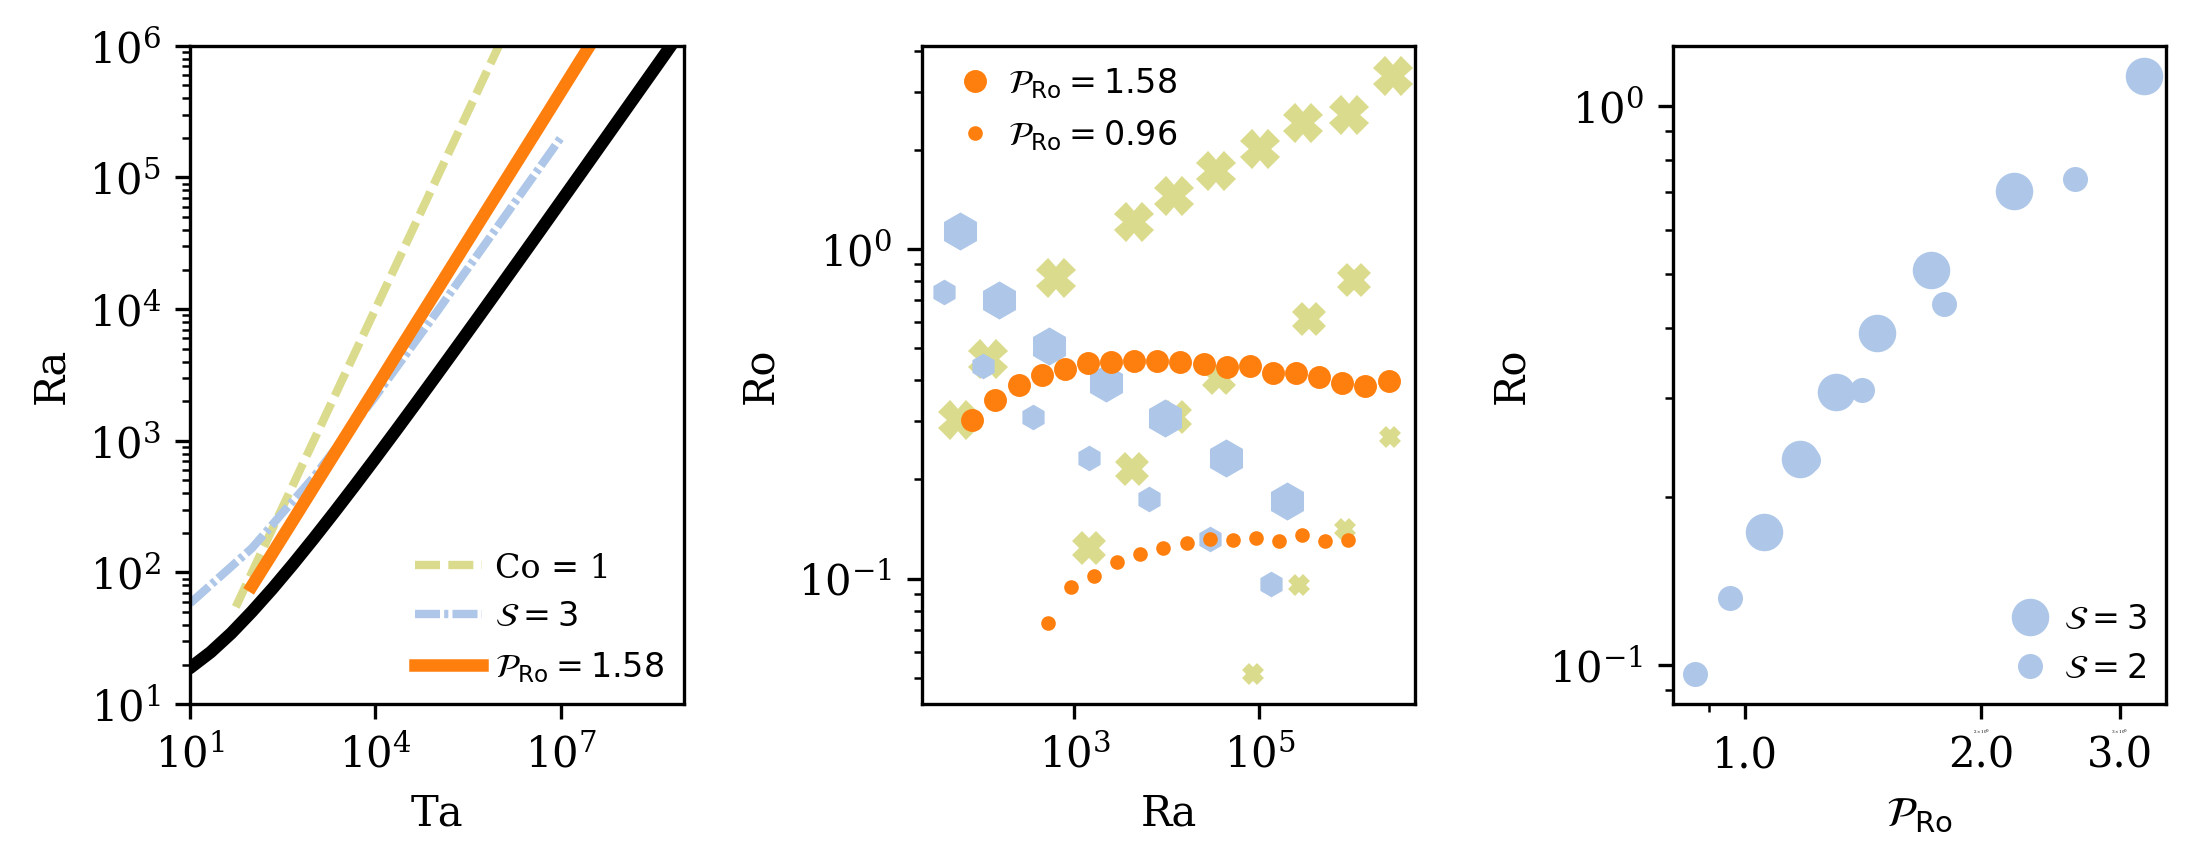
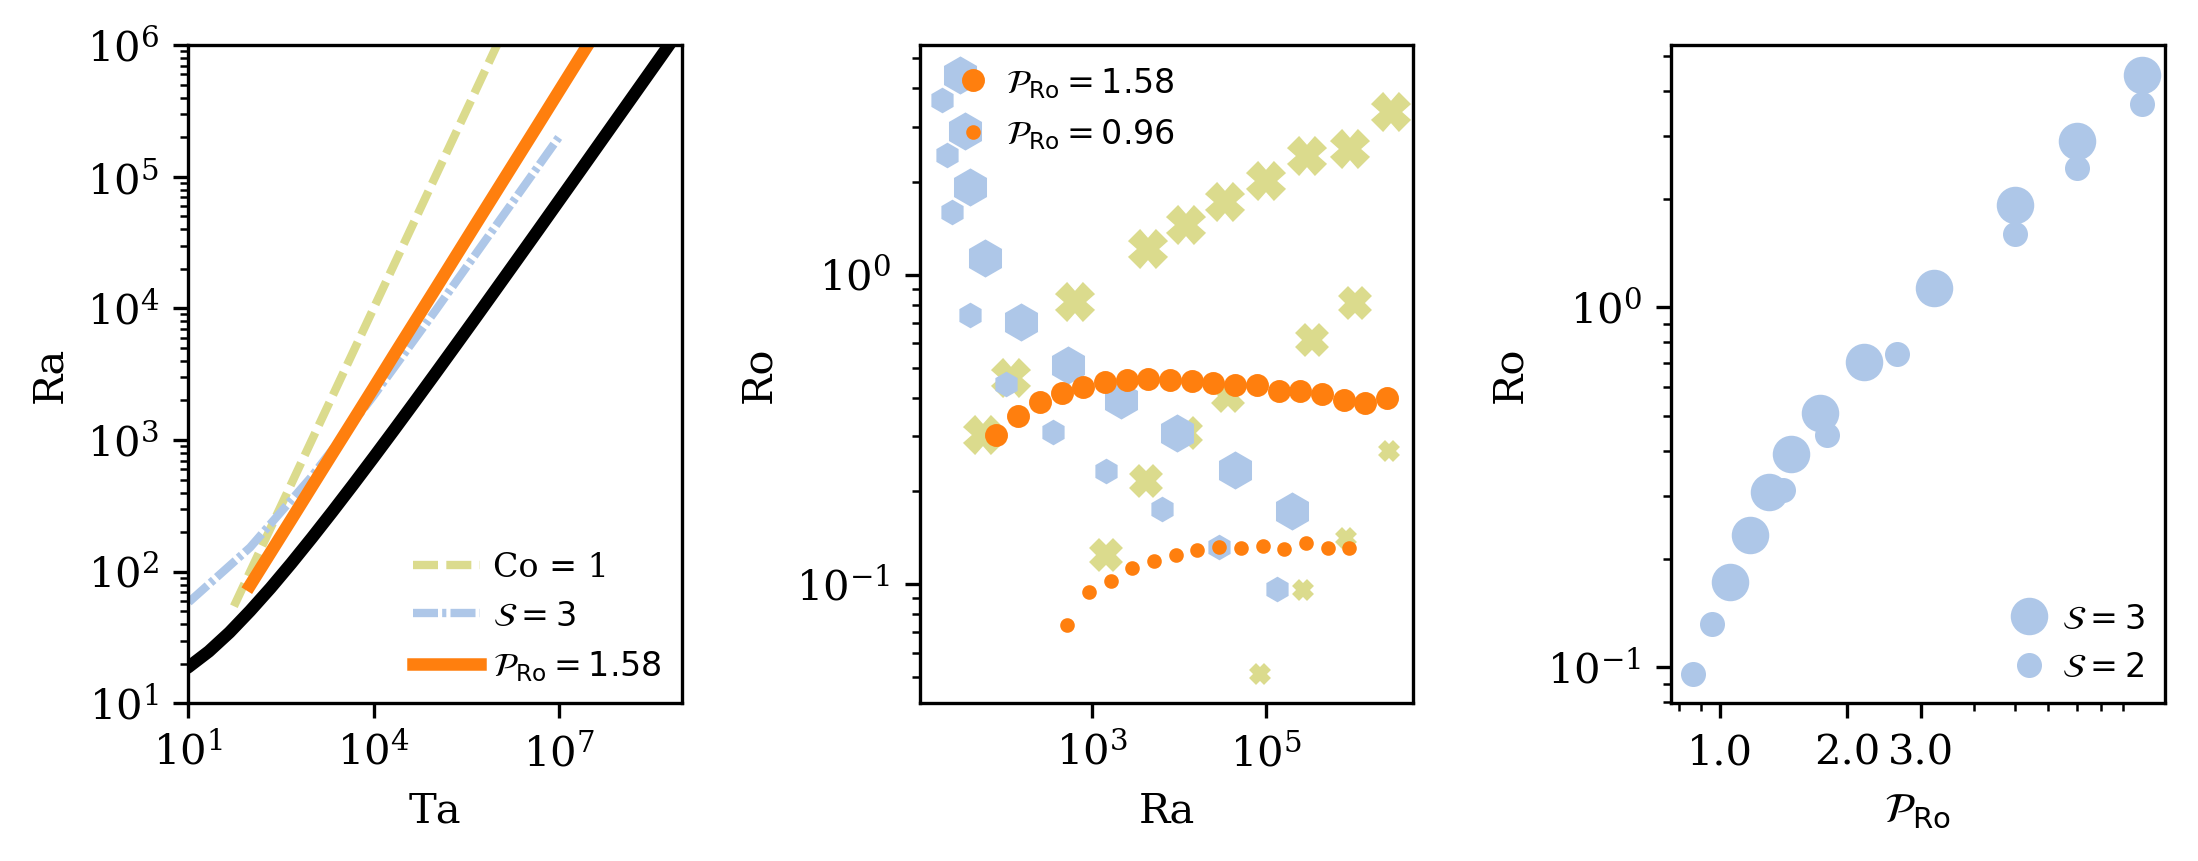
updates constant supercriticality data file, adds a few points

diff --git a/plots/fig1.py b/plots/fig1.py
@@ -37,10 +37,14 @@ x, y = original_co[co1, 2], original_co[co1, 0]
 x, y = zip(*sorted(zip(x, y)))
 ax1.plot(x, y, c=Co_color, lw=2, label='Co = 1', dashes=(3,1))
 
-sigma = np.genfromtxt('../data/coprime_data_sigma_runs.csv', skip_header=1, delimiter=',', usecols=(2,4,5,6)) #ra, ro, sigma, ta
-print(sigma[:,2])
-sig2 = sigma[:,2] == 2
-sig1_1 = sigma[:,2] == 1
+#sigma = np.genfromtxt('../data/coprime_data_sigma_runs.csv', skip_header=1, delimiter=',', usecols=(2,4,5,6)) #ra, ro, sigma, ta
+#print(sigma[:,2])
+#sig2 = sigma[:,2] == 2
+#sig1_1 = sigma[:,2] == 1
+sigma = np.genfromtxt('../data/constant_supercriticality.csv', skip_header=1, delimiter=',', usecols=(2,4,5,6)) #ra, ro, supercrit, ta
+sig2 = sigma[:,2] == 3
+sig1_1 = sigma[:,2] == 2
+
 
 ax1.plot(sigma[sig2, 3], sigma[sig2, 0], c=S_color, dashes=(3,0.5,0.5,0.5), lw=2, label=r'$\mathcal{S}=3$')
 
